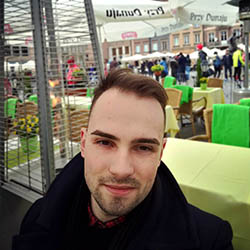
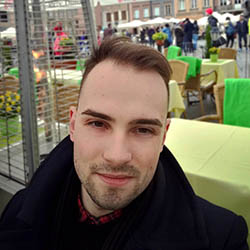
Updates

diff --git a/about.html b/about.html
@@ -47,7 +47,7 @@
       <h2 class="sm-heading">Info about me....</h2>
       <div class="about-info">
         <img
-          src="img/portrait2.jpg"
+          src="img/portrait.jpg"
           alt="Aliaksandr Andrasiuk"
           class="bio-image"
         />
